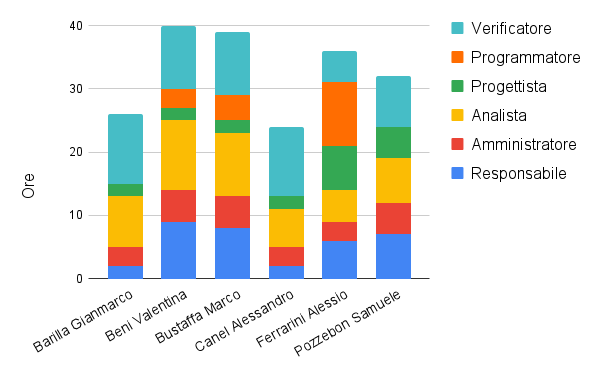
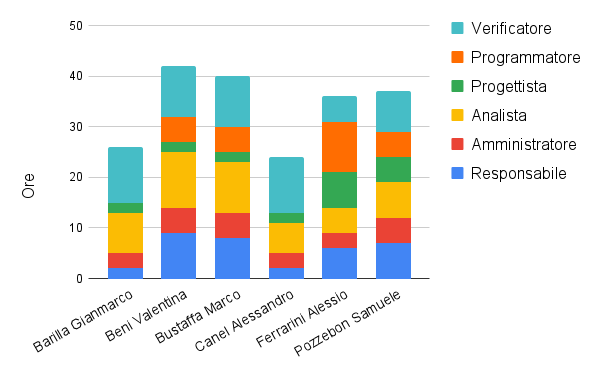
Corretto programmatore su preventivo + grafici

diff --git a/documenti/Piano-di-Progetto/sezioni/preventivo.tex b/documenti/Piano-di-Progetto/sezioni/preventivo.tex
@@ -139,19 +139,19 @@ Di seguito vengono riportate le tabelle orarie ed i costi relativi associati per
 		\rowcolor[RGB]{216, 235, 171}
 	    	Barilla Gianmarco & 2 & 1 & 2 & 2 & - & 3& 10		\\[4pt]
 	    \rowcolor[RGB]{233, 245, 206}
-	    	Beni Valentina & 4 & 2 & 2 & 2 & 3 & 4& 17			\\[4pt]
+	    	Beni Valentina & 4 & 2 & 2 & 2 & 5 & 4& 19			\\[4pt]
 	    \rowcolor[RGB]{216, 235, 171}
-	    	Bustaffa Marco & 3 & 2 & 2 & 2 & 4 & 3& 16			\\[4pt]
+	    	Bustaffa Marco & 3 & 2 & 2 & 2 & 5 & 3& 17			\\[4pt]
         \rowcolor[RGB]{233, 245, 206}
 	    	Canel Alessandro & 2 & 1 & - & 2 & - & 3& 8			\\[4pt]
         \rowcolor[RGB]{216, 235, 171}
 	    	Ferrarini Alessio & 1 & - & - & 7 & 10 & -& 18		\\[4pt]
         \rowcolor[RGB]{233, 245, 206}
-	    	Pozzebon Samuele & 2 & 2 & 1 & 5 & - & 2& 12			\\[4pt]
+	    	Pozzebon Samuele & 2 & 2 & 1 & 5 & 5 & 2& 17			\\[4pt]
 		\rowcolor[RGB]{47, 106, 73}
 			\textcolor{white}{Totale Ruolo} & \textcolor{white}{14} & \textcolor{white}{8} & \textcolor{white}{7} 
-			& \textcolor{white}{20} & \textcolor{white}{17} & \textcolor{white}{15}
-			& \textcolor{white}{81} \\[4pt]	
+			& \textcolor{white}{20} & \textcolor{white}{25} & \textcolor{white}{15}
+			& \textcolor{white}{89} \\[4pt]	
     \end{tabular}
     \caption{Distribuzione delle ore nella fase di Technology baseline}
 \end{minipage}
@@ -170,11 +170,11 @@ Di seguito vengono riportate le tabelle orarie ed i costi relativi associati per
 	    \rowcolor[RGB]{233, 245, 206}
 	    Progettista & 20 & 500\euro\\[4pt]
         \rowcolor[RGB]{216, 235, 171}
-	    Programmatore & 17 & 255\euro\\[4pt]
+	    Programmatore & 25 & 375\euro\\[4pt]
 	    \rowcolor[RGB]{233, 245, 206}
 	    Verificatore & 15 & 225\euro\\[4pt]
 		\rowcolor[RGB]{47, 106, 73}
-			\textcolor{white}{Totale} & \textcolor{white}{81} & \textcolor{white}{1735\euro}\\[4pt]	
+			\textcolor{white}{Totale} & \textcolor{white}{89} & \textcolor{white}{1855\euro}\\[4pt]	
     \end{tabular}	
 	\caption{Costi relativi al \\ preventivo orario}
 
@@ -184,18 +184,18 @@ Di seguito vengono riportate le tabelle orarie ed i costi relativi associati per
 \begin{figure}[h!]
 	\centering
 	\begin{minipage}[c]{0.3\textwidth}
-    	\includegraphics[scale=0.5]{../../assets/Diagrammi_Excel/sprint_tec.png}
+    	\includegraphics[scale=0.46]{../../assets/Diagrammi_Excel/sprint_tec.png}
 	\end{minipage}
 \hfill
 	\begin{minipage}[c]{0.46\textwidth}
-		\includegraphics[scale=0.37]{../../assets/Diagrammi_Excel/tortatec.png}
+		\includegraphics[scale=0.37]{../../assets/Diagrammi_Excel/torta_tec.png}
 	\end{minipage}
 	\caption{Prospetto ruoli per i vari sprint e ripartizione percentuale oraria}
 \end{figure}
 
 \begin{figure}[h!]
 	\centering
-	\includegraphics[scale=0.46]{../../assets/Diagrammi_Excel/person_tec.png}
+	\includegraphics[scale=0.47]{../../assets/Diagrammi_Excel/person_tec.png}
 	\caption{Suddivisione ruoli per persona - Technology Baseline}
 \end{figure}
 \newpage
@@ -221,19 +221,19 @@ Di seguito vengono riportate le tabelle orarie ed i costi relativi associati per
 		\rowcolor[RGB]{216, 235, 171}
 	    	Barilla Gianmarco & 2 & 3 & 8 & 2 & - & 11& 26		\\[4pt]
 	    \rowcolor[RGB]{233, 245, 206}
-	    	Beni Valentina & 9 & 5 & 11 & 2 & 3 & 10& 40			\\[4pt]
+	    	Beni Valentina & 9 & 5 & 11 & 2 & 5 & 10& 42			\\[4pt]
 	    \rowcolor[RGB]{216, 235, 171}
-	    	Bustaffa Marco & 8 & 5 & 10 & 2 & 4 & 10& 39			\\[4pt]
+	    	Bustaffa Marco & 8 & 5 & 10 & 2 & 5 & 10& 40			\\[4pt]
         \rowcolor[RGB]{233, 245, 206}
 	    	Canel Alessandro & 2 & 3 & 6 & 2 & - & 11& 24 			\\[4pt]
         \rowcolor[RGB]{216, 235, 171}
 	    	Ferrarini Alessio & 6 & 3 & 5 & 7 & 10 & 5& 36		\\[4pt]
         \rowcolor[RGB]{233, 245, 206}
-	    	Pozzebon Samuele & 7 & 5 & 7 & 5 & - & 8& 32			\\[4pt]
+	    	Pozzebon Samuele & 7 & 5 & 7 & 5 & 5 & 8& 37			\\[4pt]
 		\rowcolor[RGB]{47, 106, 73}
 			\textcolor{white}{Totale Ruolo} & \textcolor{white}{34} & \textcolor{white}{24} & \textcolor{white}{47} 
-			& \textcolor{white}{20} & \textcolor{white}{17} & \textcolor{white}{55}
-			& \textcolor{white}{197} \\[4pt]	
+			& \textcolor{white}{20} & \textcolor{white}{25} & \textcolor{white}{55}
+			& \textcolor{white}{205} \\[4pt]	
     \end{tabular}
     \caption{Riepilogo distribuzione oraria}
 \end{minipage}
@@ -252,11 +252,11 @@ Di seguito vengono riportate le tabelle orarie ed i costi relativi associati per
 	    \rowcolor[RGB]{233, 245, 206}
 	    Progettista & 20 & 500\euro\\[4pt]
         \rowcolor[RGB]{216, 235, 171}
-	    Programmatore & 17 & 255\euro\\[4pt]
+	    Programmatore & 25 & 375\euro\\[4pt]
 	    \rowcolor[RGB]{233, 245, 206}
 	    Verificatore & 55 & 825\euro\\[4pt]
 		\rowcolor[RGB]{47, 106, 73}
-			\textcolor{white}{Totale} & \textcolor{white}{197} & \textcolor{white}{4255\euro}\\[4pt]	
+			\textcolor{white}{Totale} & \textcolor{white}{205} & \textcolor{white}{4375\euro}\\[4pt]	
     \end{tabular}	
 	\caption{Riepilogo costi}
 
@@ -271,7 +271,7 @@ Di seguito vengono riportate le tabelle orarie ed i costi relativi associati per
 	\end{minipage}
 \hfill
 	\begin{minipage}[c]{0.46\textwidth}
-		\includegraphics[scale=0.37]{../../assets/Diagrammi_Excel/tortatot.png}
+		\includegraphics[scale=0.38]{../../assets/Diagrammi_Excel/torta_tot.png}
 		\caption{Riepilogo ripartizione\\ percentuale oraria}
 	\end{minipage}
 \end{figure}
